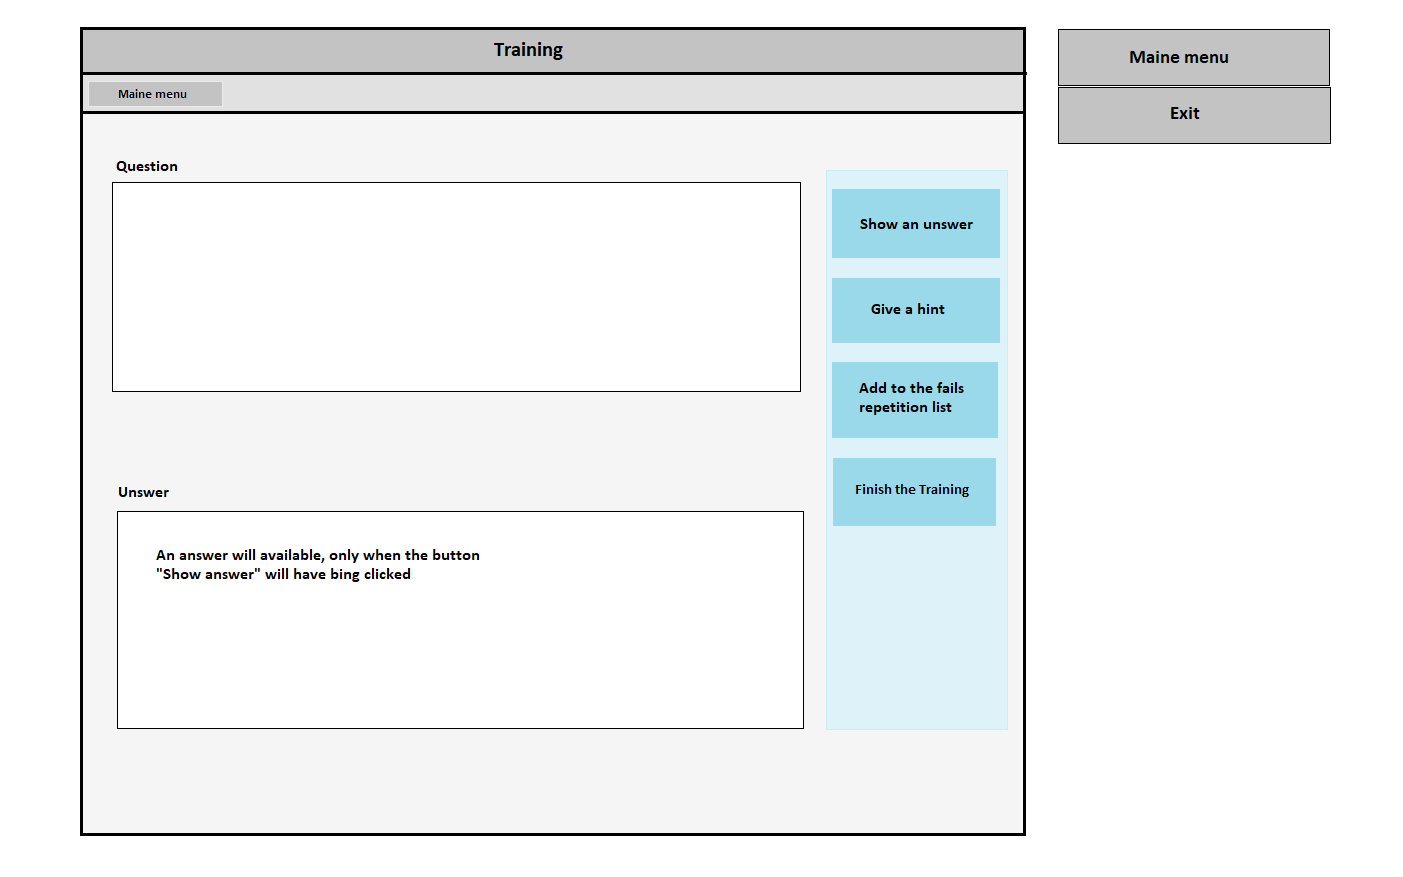
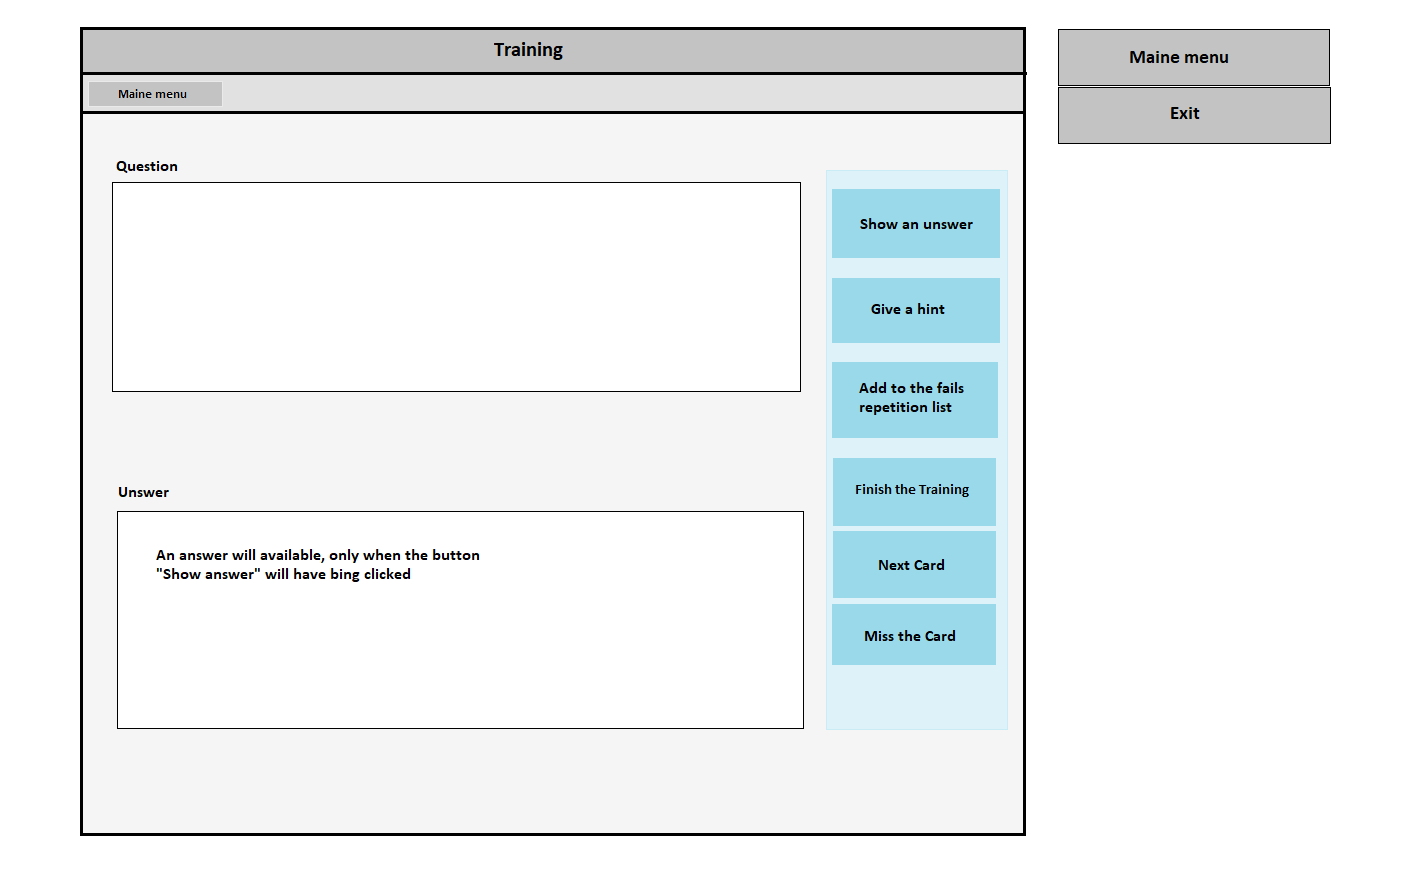
Dictionary Design add; TrainingGUI and design update

Changed region(s): [[0.5823, 0.5849, 0.7356, 0.7697]]

diff --git a/src/view/GUI/TrainingGUI.java b/src/view/GUI/TrainingGUI.java
@@ -3,15 +3,8 @@ package view.GUI;
 import basicClasses.Card;
 import basicClasses.Dictionary;
 import model.Model;
-
 import javax.swing.*;
 import java.awt.*;
-import java.awt.event.ActionEvent;
-import java.awt.event.ActionListener;
-import java.io.BufferedReader;
-import java.io.File;
-import java.io.FileReader;
-import java.io.IOException;
 import java.util.ArrayList;
 
 public class TrainingGUI {
@@ -21,11 +14,10 @@ public class TrainingGUI {
 
     private JTextArea questionArea;
     private JTextArea answerArea; // ??
-    private ArrayList<Card> cardList;
     private Card currentCard;
-    private int currentCardIndex;
+    private int currentCardIndex; // ??
     private JFrame frame;
-    private boolean isShowAnswer;
+    private ArrayList<Card> missedCard;
 
 
     public TrainingGUI(Model model, Dictionary currentDictionary) {
@@ -59,99 +51,40 @@ public class TrainingGUI {
         answerScroller.setHorizontalScrollBarPolicy(ScrollPaneConstants.HORIZONTAL_SCROLLBAR_NEVER);
 
         JPanel mainPanel = new JPanel();
+        mainPanel.setBackground(Color.LIGHT_GRAY);
         mainPanel.add(BorderLayout.NORTH, questionScroller);
         mainPanel.add(BorderLayout.SOUTH, answerScroller);
 
+        JButton showAnswerButton = new JButton("Show an answer");
+        JButton givHintButton = new JButton("Give a hint");
+        JButton failsListButton = new JButton("Add to the Fails repetition list");
+        JButton finishTrainingButton = new JButton("Finish Training");
+        JButton nexCardButton = new JButton("Next Card");
+        JButton missCardButton = new JButton("Miss the Card");
+
         JPanel buttonsPanel = new JPanel();
-        
+        buttonsPanel.setBackground(Color.cyan);
+        buttonsPanel.setLayout(new BoxLayout(buttonsPanel, BoxLayout.Y_AXIS));
+        buttonsPanel.add(showAnswerButton);
+        buttonsPanel.add(givHintButton);
+        buttonsPanel.add(failsListButton);
+        buttonsPanel.add(finishTrainingButton);
+        buttonsPanel.add(nexCardButton);
+        buttonsPanel.add(missCardButton);
 
         JMenuBar menuBar = new JMenuBar();
         JMenu main_menu = new JMenu("Main menu");
         JMenuItem exit = new JMenuItem("Exit");
+        main_menu.add(exit);
         menuBar.add(main_menu);
 
 
         frame.setJMenuBar(menuBar);
         frame.getContentPane().add(BorderLayout.CENTER, mainPanel);
-        frame.setSize(640, 500);
+        frame.getContentPane().add(BorderLayout.EAST, buttonsPanel);
+        frame.setSize(680, 500);
         frame.setVisible(true);
     }
 
-    private void loadFile(File file){
-        // нужно создать ArrayList с карточками, считывая их из текстового файла,
-        // вызванного из обработчика событий класса OpenMenuListener,
-        // прочитать файл по одной строке за один раз
-        // и вызвать метод makeCard() для создания новой карточки из строки
-        cardList = new ArrayList<>();
-
-        try {
-            BufferedReader reader = new BufferedReader(new FileReader(file));
-            String line = null;
-
-            while ((line = reader.readLine()) != null){
-                makeCard(line);
-            }
-            reader.close();
-        } catch (IOException e){
-            System.out.println("couldn't read the card file");
-            e.printStackTrace();
-        }
-
-        // Пришло времпоказать первую карточку
-        showNextCard();
-    }
-
-    private void makeCard(String lineToParse){
-        // Вызывается методом loadFile, берёт строку из текстового файла,
-        // делит её на две части - переднюю и заднюю и создаёт новую карточку,
-        // а затем добавляет её в ArrayList с помощью CardList
-        String[] result = lineToParse.split("/");
-        Card card = new Card(result[0], result[1]);
-        cardList.add(card);
-        System.out.println("made a card");
-    }
-
-
-    private void showNextCard(){
-        currentCard = cardList.get(currentCardIndex);
-        currentCardIndex++;
-        questionArea.setText(currentCard.getBack());
-        nextButton.setText("Show answer");
-        isShowAnswer = true;
-    }
-
-    class NextCardListener implements ActionListener{
-        // Если это вопрос , показываем ответ, иначе показываем следующий вопрос
-        // Установим флаг для того, что мы видим, - вопрос это или ответ
-        @Override
-        public void actionPerformed(ActionEvent e) {
-            if (isShowAnswer){
-                // показываем ответ, так как вопрос уже был показан
-                questionArea.setText(currentCard.getBack());
-                nextButton.setText("Next Card");
-                isShowAnswer = false;
-            } else {
-                // Показываем следующий вопрос
-                if (currentCardIndex < cardList.size()) {
-                    showNextCard();
-                } else {
-                    // Больше карточек нет
-                    questionArea.setText("That was last card");
-                    nextButton.setEnabled(false);
-                }
-            }
-        }
-    }
-
-    class OpenMenuListener implements ActionListener{
-        // Вызываем диалоговое окно, ползволяющее пользователю выбирать,
-        // какой набор карточек открыть
-        @Override
-        public void actionPerformed(ActionEvent e) {
-            JFileChooser fileOpen = new JFileChooser();
-            fileOpen.showOpenDialog(frame);
-            loadFile(fileOpen.getSelectedFile());
-        }
-    }
 
 }

diff --git a/src/view/GUI/DictionaryGUI.java b/src/view/GUI/DictionaryGUI.java
@@ -1,0 +1,53 @@
+package view.GUI;
+
+import basicClasses.Dictionary;
+import model.Model;
+
+import javax.swing.*;
+import java.awt.*;
+
+public class DictionaryGUI {
+
+    Model model;
+    Dictionary dictionary;
+
+    JFrame frame;
+    JPanel mainPanel;
+    JPanel buttonsPanel;
+    JMenuBar menuBar;
+
+    public DictionaryGUI(Model model, Dictionary dictionary) {
+        this.model = model;
+        this.dictionary = dictionary;
+    }
+
+    public void go(){
+        frame = new JFrame("Dictionary " + dictionary.getName());
+        frame.setDefaultCloseOperation(WindowConstants.EXIT_ON_CLOSE);
+
+        menuBar = new JMenuBar();
+        JMenu mainMenu = new JMenu("Main menu");
+        JMenuItem exit = new JMenuItem("Exit");
+        mainMenu.add(exit);
+        menuBar.add(mainMenu);
+
+        mainPanel = new JPanel();
+        mainPanel.setBackground(Color.LIGHT_GRAY);
+
+        JButton createCardButton = new JButton("Create new CArd");
+        JButton editCardButton = new JButton("Edit Card");
+        JButton deleteCardButton = new JButton("Delete Card");
+
+        buttonsPanel = new JPanel();
+        buttonsPanel.setBackground(Color.cyan);
+        buttonsPanel.add(createCardButton);
+        buttonsPanel.add(editCardButton);
+        buttonsPanel.add(deleteCardButton);
+
+        frame.setJMenuBar(menuBar);
+        frame.getContentPane().add(BorderLayout.CENTER, mainPanel);
+        frame.getContentPane().add(BorderLayout.EAST, buttonsPanel);
+        frame.setSize(680,50);
+        frame.setVisible(true);
+    }
+}

diff --git a/src/view/GUI/CardBuilder.java b/src/view/GUI/CardBuilder.java
@@ -1,6 +1,8 @@
 package view.GUI;
 
 import basicClasses.Card;
+import basicClasses.Dictionary;
+import model.Model;
 
 import javax.swing.*;
 import java.awt.*;
@@ -13,6 +15,9 @@ import java.io.IOException;
 import java.util.ArrayList;
 
 public class CardBuilder {
+
+    Model model;
+    Dictionary dictionary;
 
     private JTextArea frontSide;
     private JTextArea backSide;
@@ -74,7 +79,7 @@ public class CardBuilder {
 
         frame.setJMenuBar(menuBar);
         frame.getContentPane().add(BorderLayout.CENTER, mainPanel);
-        frame.setSize(500,600);
+        frame.setSize(680,500);
         frame.setVisible(true);
     }
 

diff --git a/src/view/View.java b/src/view/View.java
@@ -4,7 +4,7 @@ import basicClasses.Dictionary;
 import basicClasses.User;
 import basicClasses.dictionaries.EnglishDictionary;
 import model.Model;
-import view.GUI.TrainingGUI;
+import view.GUI.DictionaryGUI;
 
 
 public class View {
@@ -18,7 +18,7 @@ public class View {
     }
 
     public void go(){
-        TrainingGUI trainingGUI = new TrainingGUI(model, currentDictionary);
-        trainingGUI.go();
+        DictionaryGUI dictionaryGUI = new DictionaryGUI(model, currentDictionary);
+        dictionaryGUI.go();
     }
 }

diff --git a/src/view/GUI/UserSelectGUI.java b/src/view/GUI/UserSelectGUI.java
@@ -69,7 +69,7 @@ public class UserSelectGUI {
         frame.getContentPane().add(BorderLayout.CENTER, mainPanel);
         frame.getContentPane().add(BorderLayout.EAST, buttonsPanel);
         frame.setJMenuBar(menuBar);
-        frame.setSize(500,600);
+        frame.setSize(680,500);
         frame.setVisible(true);
     }
 

diff --git a/src/view/GUI/UserProfileGUI.java b/src/view/GUI/UserProfileGUI.java
@@ -74,7 +74,7 @@ public class UserProfileGUI {
         frame.getContentPane().add(BorderLayout.EAST, buttonPanel);
         frame.setJMenuBar(menuBar);
 
-        frame.setSize(500, 600);
+        frame.setSize(680, 500);
         frame.setVisible(true);
     }
 
